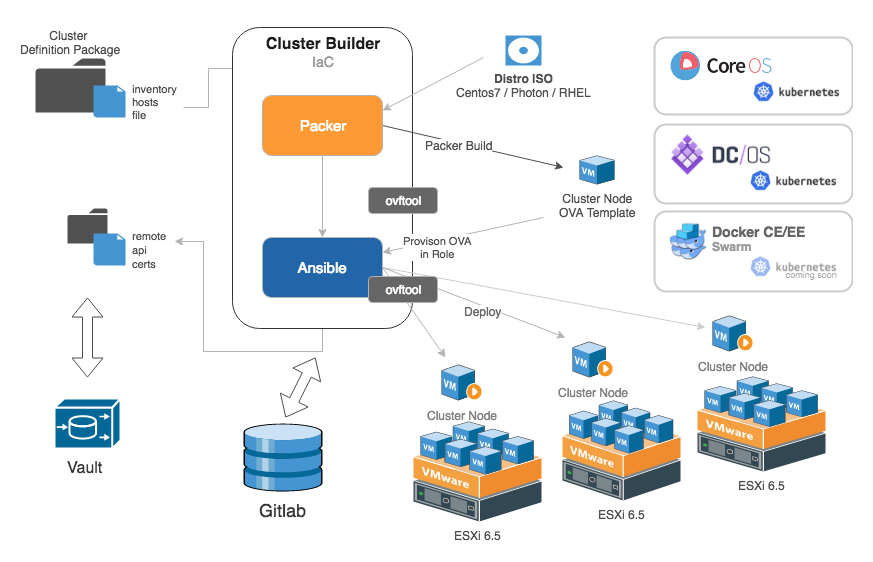
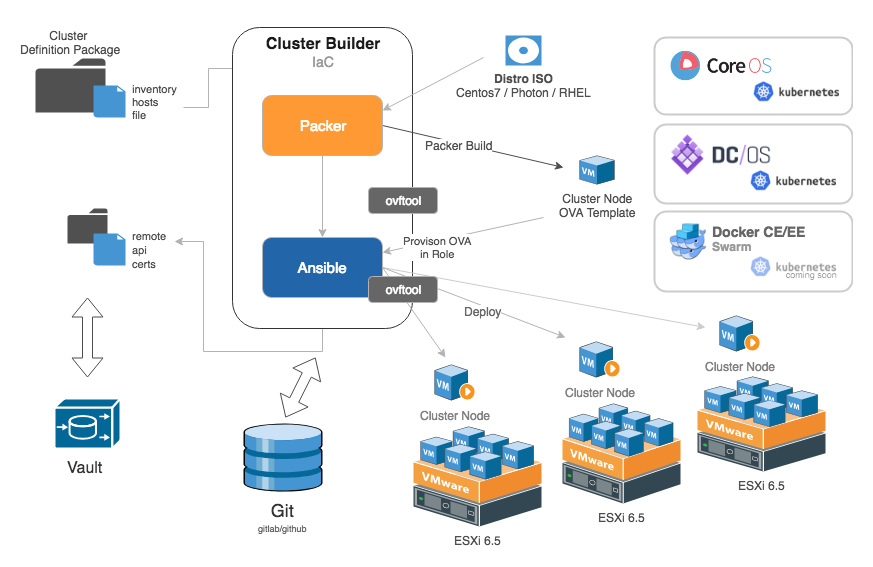
update release notes, overview diagram, remove vFile from default swarm install

diff --git a/RELEASE.md b/RELEASE.md
@@ -5,11 +5,13 @@ v18.04.01
 ---------
 
 * Updated CentOS7 to 7.5 (1804).
+* Added `cores-ansible.yml` wrapper script for bootstrapping CoreOS with `PyPy` to enable __Ansible__ management of CoreOS nodes.
 * Initial implementation of __Ansible__ based CoreOS __iSCSI__ configuration playbook.
 * Initial implementation of __Targetd Storage Appliance__ VM with dynamic iSCSI provisioning and an integrated __iscsi-provisioner__ __Tectonic CoreOS__ configuration.
 * Fixes in support of Ansible 2.5.
 * Implemented recommendations for `elevator=deadline` in all CentOS7/RHEL and CoreOS VMs as per the [Redhat documentation](https://access.redhat.com/solutions/5427).  Kickstart files for RHEL based VMs and the `coreos-init.yml` ansible playbook for optimizing CoreOS post PXE deployment after the `coreos-ansible.yml` install playbook.
-* Tested with VMware Workstation Pro 14 for Linux on the cluster control station appliance.
+* Tested with __VMware Fusio Pro 10 for Mac__.
+* Tested with __VMware Workstation Pro 14 for Linux__ on the cluster control station appliance.
 * Updated and validated __Tectonic CoreOS__ install for __1.9.6-tectonic.1__.
 * Validated installation of __DC/OS 1.11__, still no changes required to cluster-builder after 4 version upgrades.
 
